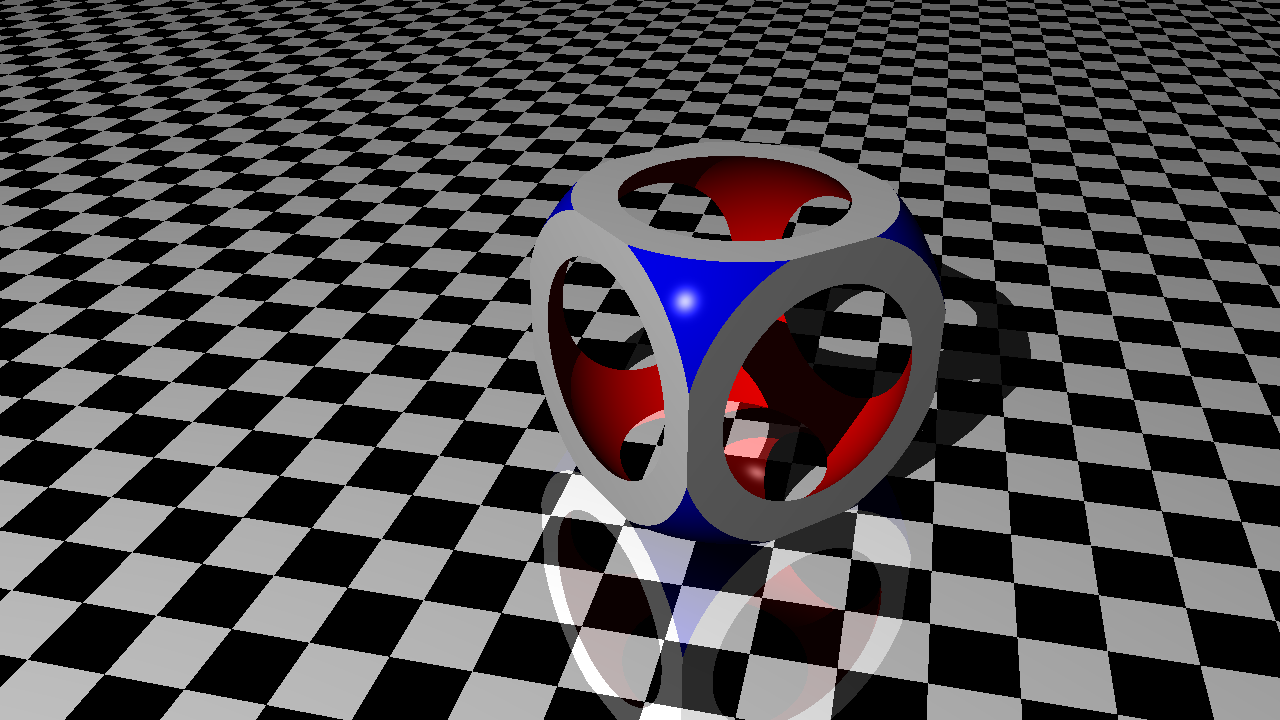
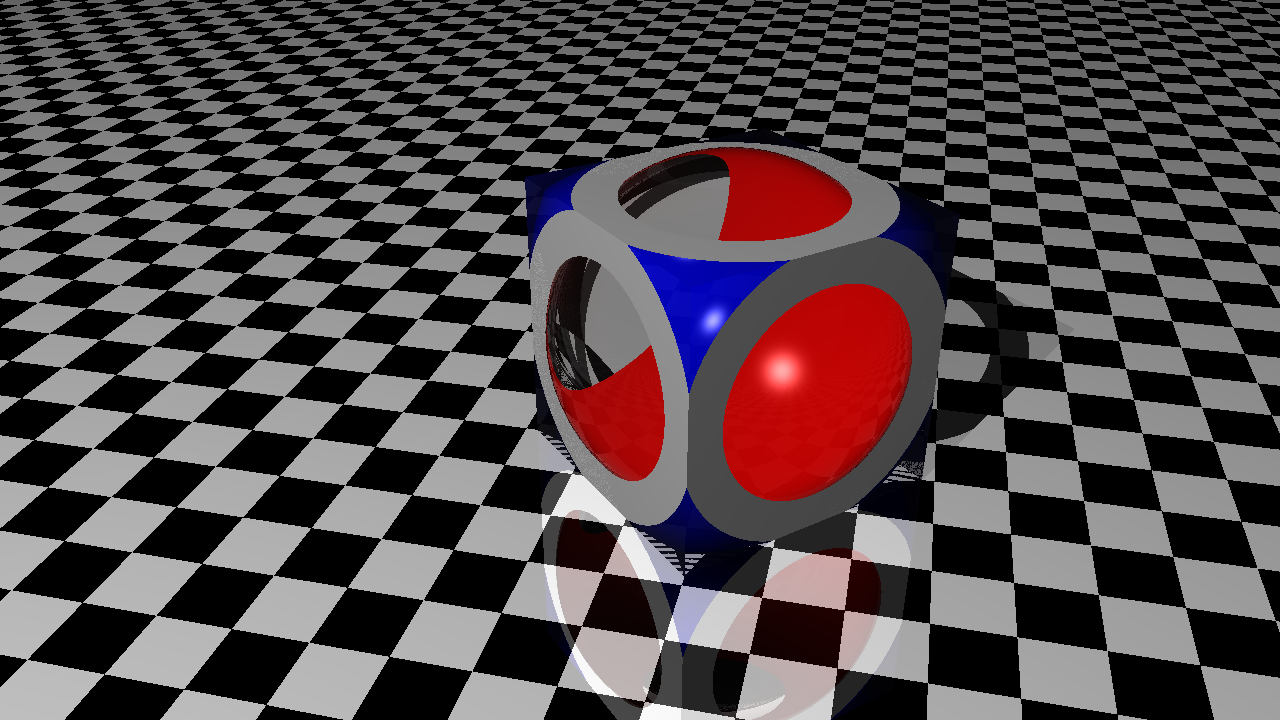
Chapter 16 - Constructive Solid Geometry - CSG working - bug to look into

diff --git a/demo/src/test_scenes/csg.rs b/demo/src/test_scenes/csg.rs
@@ -46,6 +46,19 @@ impl TestScene for Csg {
                     sphere
                 })
             };
+            // Glass core
+            // TODO investigate: cube casts shadow but only when above is uncommented
+            //   Possible failure to count correctly in the flat tree
+            +{
+                csg!({
+                    let mut sphere = sphere!(matrix: matrix4x4!(scale_all(1.25)));
+                    sphere.material = Material::glass();
+                    sphere
+                }) ^ csg!(
+                    {let mut cube = cube!();
+                        cube.material = Material::glass();
+                    cube})
+            };
         ));
         world
     }

diff --git a/ray_tracer/src/csg/intersection.rs b/ray_tracer/src/csg/intersection.rs
@@ -110,7 +110,6 @@ mod by_operation_intersection_filtering_tests {
 mod intersection_in_flat_tree_tests {
     use super::*;
     use crate::intersection::Intersect;
-    use crate::{csg_sphere, ray, sphere};
     use math::{point, vector};
 
     macro_rules! operation_intersections {
